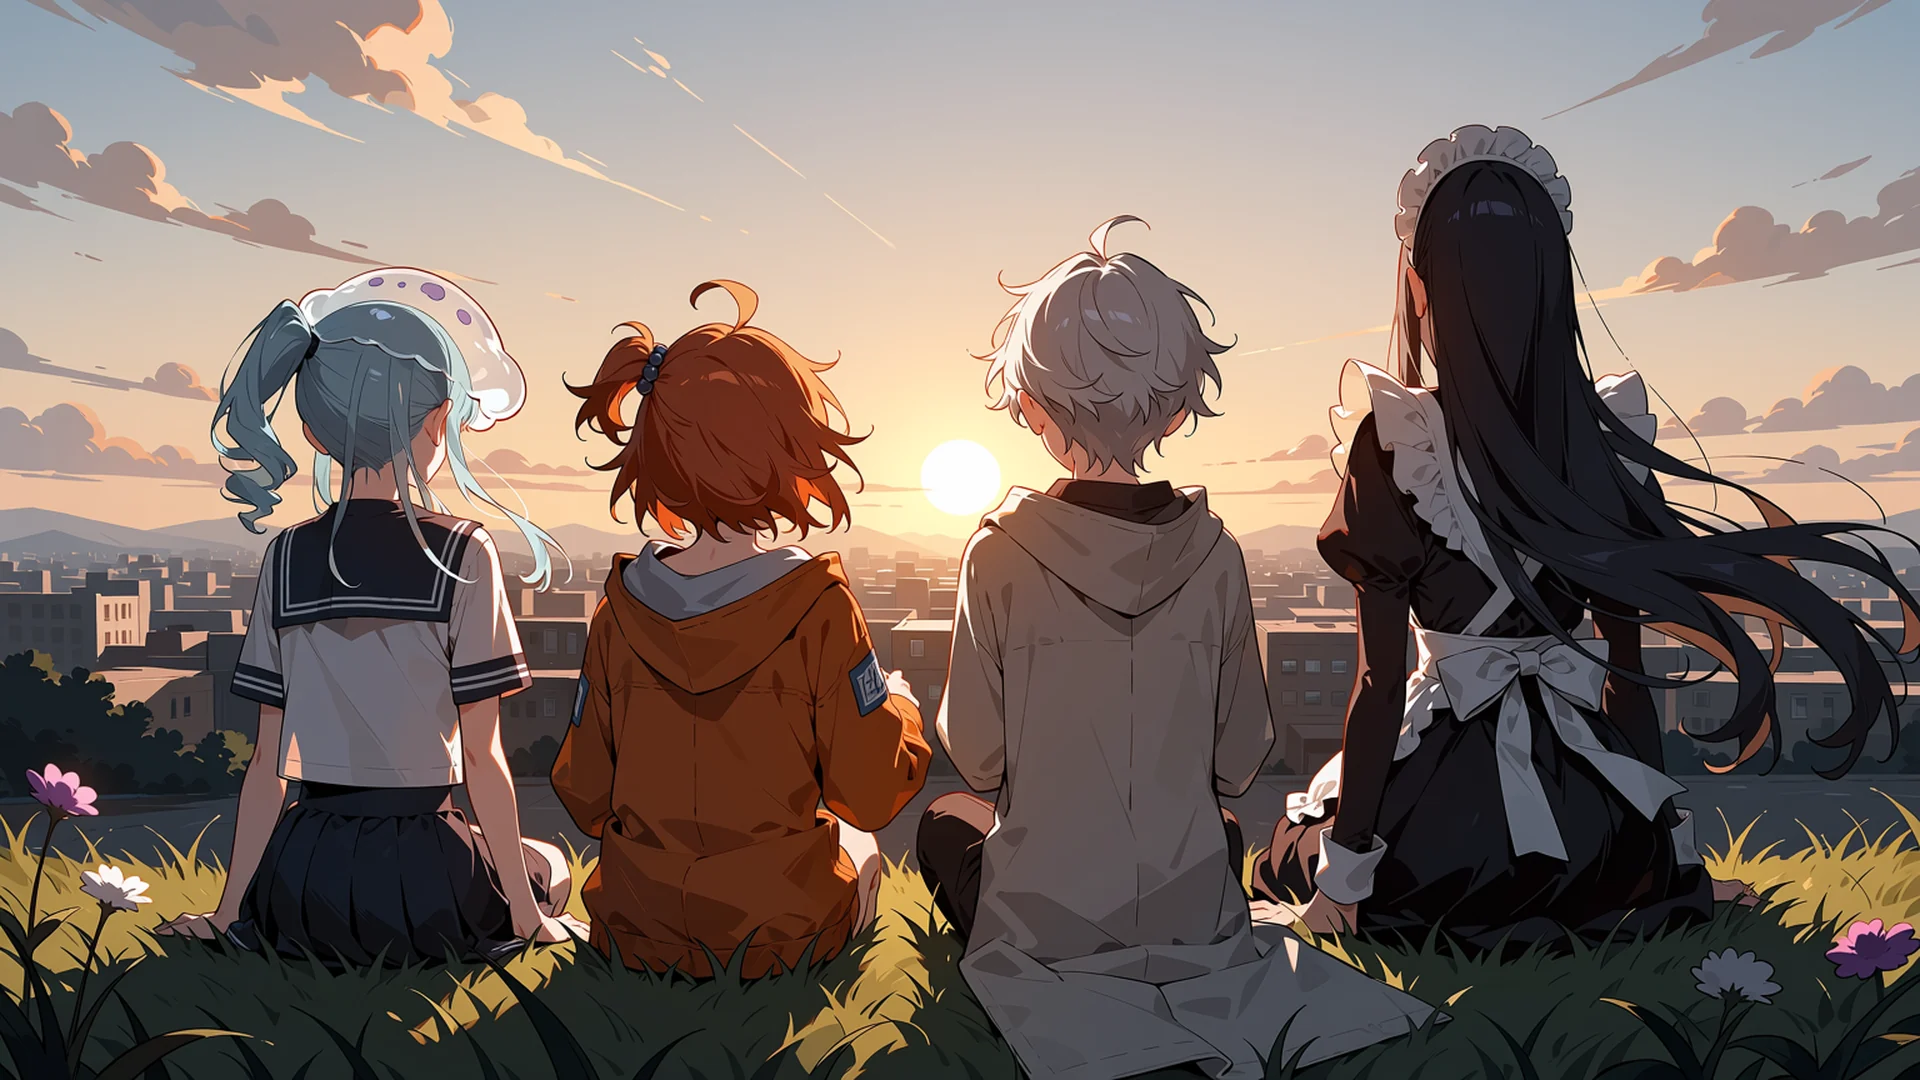
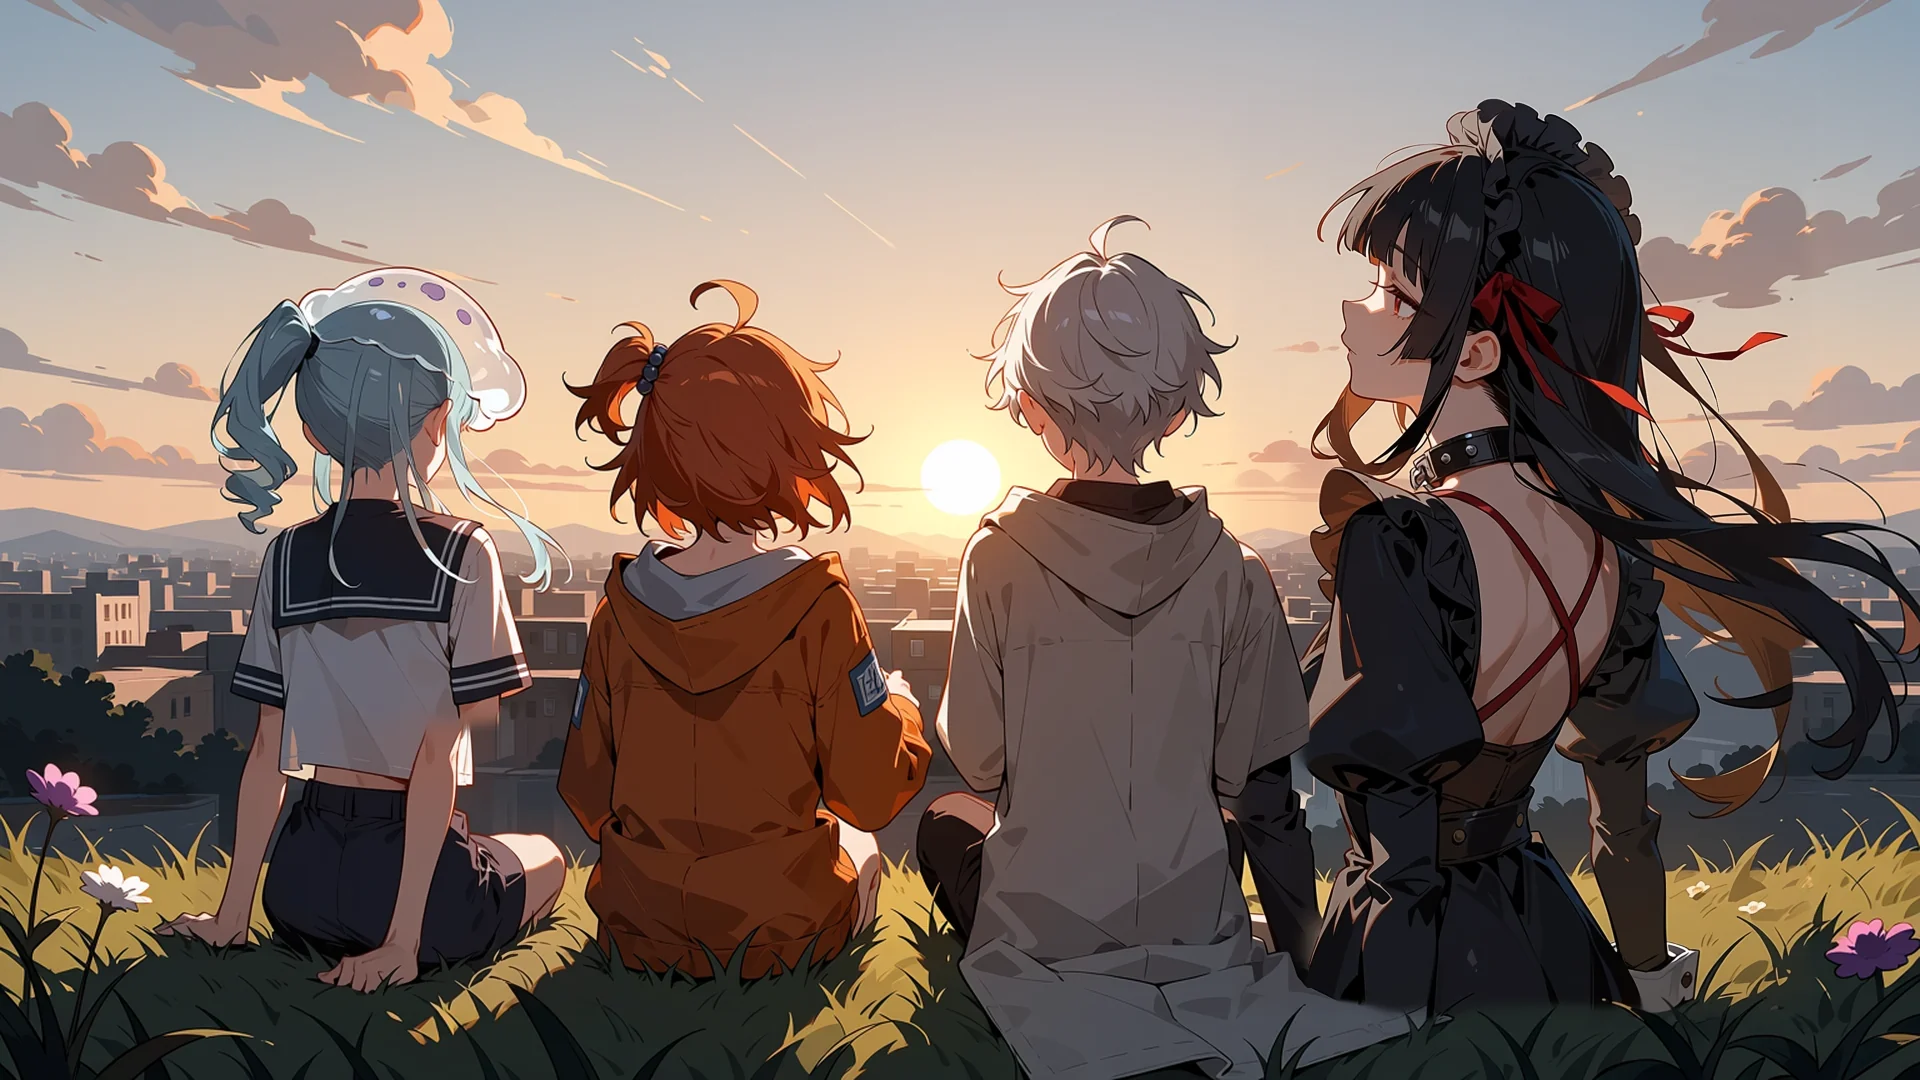
ストーリー公開: STORY ボタンを全員に出し、お知らせと一枚絵2枚の衣装を直した
c5_gate を描き直し、c6_dawn は瑠璃と茜を部分描き直しで立ち絵の衣装に揃えた。

Claude-Session: https://claude.ai/code/session_01Rbm6yMDkKFXBQe3KeEU7A4

Changed region(s): [[0.625, 0.0917, 0.9375, 0.9472], [0.0938, 0.6722, 0.3125, 0.9472]]

diff --git a/three-play.html b/three-play.html
@@ -4879,7 +4879,7 @@
       "./js3d/motion.js": "./js3d/motion.js?v=71cd68f8ff",
       "./js3d/mutebutton.js": "./js3d/mutebutton.js?v=1362dbc4d6",
       "./js3d/net.js": "./js3d/net.js?v=3134839bca",
-      "./js3d/news.js": "./js3d/news.js?v=107df38a33",
+      "./js3d/news.js": "./js3d/news.js?v=7b803e84e8",
       "./js3d/notice.js": "./js3d/notice.js?v=029a81acaa",
       "./js3d/opponent-select.js": "./js3d/opponent-select.js?v=fee989c0b5",
       "./js3d/panel.js": "./js3d/panel.js?v=fe55c120c1",
@@ -4927,11 +4927,11 @@
       "./js3d/story-scenery.js": "./js3d/story-scenery.js?v=9fa267bcf9",
       "./js3d/story-ui.js": "./js3d/story-ui.js?v=d75059f411",
       "./js3d/story-world.js": "./js3d/story-world.js?v=1b6a3369d0",
-      "./js3d/story.js": "./js3d/story.js?v=cb9c3242eb",
+      "./js3d/story.js": "./js3d/story.js?v=c4bc574fc8",
       "./js3d/support.js": "./js3d/support.js?v=efb00a908c",
       "./js3d/theme.js": "./js3d/theme.js?v=932e1d5eb8",
       "./js3d/tips.js": "./js3d/tips.js?v=3faae17957",
-      "./js3d/title.js": "./js3d/title.js?v=5421a14eb7",
+      "./js3d/title.js": "./js3d/title.js?v=1d2d40da2d",
       "./js3d/titleback.js": "./js3d/titleback.js?v=5663d0b7a4",
       "./js3d/training.js": "./js3d/training.js?v=3018b4399e",
       "./js3d/tsume.js": "./js3d/tsume.js?v=2d63bf0cd7",
@@ -4978,7 +4978,7 @@
   <link rel="modulepreload" href="js3d/control.js?v=c1b87ebc63">
   <link rel="modulepreload" href="js3d/panel.js?v=fe55c120c1">
   <link rel="modulepreload" href="js3d/setup.js?v=e17da5ca65">
-  <link rel="modulepreload" href="js3d/title.js?v=5421a14eb7">
+  <link rel="modulepreload" href="js3d/title.js?v=1d2d40da2d">
   <link rel="modulepreload" href="js3d/training.js?v=3018b4399e">
   <link rel="modulepreload" href="js3d/room.js?v=918fccde40">
   <link rel="modulepreload" href="js3d/roombet.js?v=cc2e51d3f4">
@@ -4990,7 +4990,7 @@
   <link rel="modulepreload" href="js3d/equip.js?v=51faa70a25">
   <link rel="modulepreload" href="js3d/stats.js?v=5e9acbdde6">
   <link rel="modulepreload" href="js3d/stats-data.js?v=61334c9347">
-  <link rel="modulepreload" href="js3d/story.js?v=cb9c3242eb">
+  <link rel="modulepreload" href="js3d/story.js?v=c4bc574fc8">
   <link rel="modulepreload" href="js3d/story-ui.js?v=d75059f411">
   <link rel="modulepreload" href="js3d/story-world.js?v=1b6a3369d0">
   <link rel="modulepreload" href="js3d/rewards.js?v=ef3a012bdb">
@@ -5061,7 +5061,7 @@
   <link rel="modulepreload" href="js3d/backdrops.js?v=90faf9612d">
   <link rel="modulepreload" href="js3d/profile.js?v=704205fbfe">
   <link rel="modulepreload" href="js3d/gacha-ui.js?v=b5bf4956cc">
-  <link rel="modulepreload" href="js3d/news.js?v=107df38a33">
+  <link rel="modulepreload" href="js3d/news.js?v=7b803e84e8">
   <link rel="modulepreload" href="vendor/jsm/postprocessing/ShaderPass.js">
   <link rel="modulepreload" href="js3d/story-map.js?v=a71db70a40">
   <link rel="modulepreload" href="js3d/story-scenery.js?v=9fa267bcf9">

diff --git a/js3d/title.js b/js3d/title.js
@@ -277,9 +277,9 @@ export function runTitle(protocols, opts) {
             '<button data-mode="record" type="button">RECORD</button>' +
             '<button data-mode="more" type="button" class="tt-morebtn" aria-expanded="false">MORE</button>' +
             '<div class="tt-morepop" hidden>' +
-              /* ストーリーは作り直しの間 (案8。2026-10-05〜) 管理者だけ。仕上がったら全員に戻す */
+              /* ストーリーは作り直しの間 (案8。2026-10-05〜) 管理者だけだった。2026-10-23 に序章〜終章が仕上がったので全員に開いた */
               /* 物語の進み具合 (前はいつも「序章「起動」」のまま) */
-              '<button data-mode="story" type="button"' + (accountState().admin ? '' : ' hidden') + '>STORY <small>' + storyLabel() + '</small></button>' +
+              '<button data-mode="story" type="button">STORY <small>' + storyLabel() + '</small></button>' +
               '<button data-mode="tutorial" type="button">TUTORIAL <small>遊び方</small></button>' +
               '<button data-mode="training" type="button">TRAINING <small>盤面を自由に</small></button>' +
               '<button data-mode="cards" type="button">CARDS <small>カード一覧</small></button>' +
@@ -301,8 +301,6 @@ export function runTitle(protocols, opts) {
         label.parentElement.classList.toggle('nudge', nudge);
         if (cap && nudge) cap.textContent = '記録はこのブラウザだけ！';
         root.querySelector('#ttCorner button[data-mode="admin"]').hidden = !accountState().admin;
-        const story = root.querySelector('button[data-mode="story"]');
-        if (story) story.hidden = !accountState().admin;
         return true;
       };
       /* メニューを出す前にログイン状態が読み終わっていることがある (そのときの知らせは聞き逃している)。

diff --git a/js3d/story.js b/js3d/story.js
@@ -46,8 +46,8 @@ export const SPEAKERS = {
 /* 名前のない機体 (モブ) は、量産プロトコル3つ (js3d/mobcards.js)。タッグの相方も同じ3つを並べ替えて使う。元のカードと β は名前のある人物だけが使う (2026-10-16 ユーザー) */
 const MOB = MOB_DECK, MOB_MATE = MOB_MATE_DECK;
 const L = (who, text, face) => ({ who, text, ...(face ? { face } : {}) });
-/* 終章で、紫苑が判定票の名前の欄に書いた名前。仮の「灯」(2026-10-22、本人の返事待ちのまま入れた)。
-   差し替えるときはここだけ直す (画面に出るのは終章の SYSTEM の1行だけで、声にはならない) */
+/* 終章で、紫苑が判定票の名前の欄に書いた名前。「灯 (あかり)」(2026-10-23 本人「よしなに」で確定)。
+   変えるときはここだけ直す (画面に出るのは終章の SYSTEM の1行だけで、声にはならない) */
 export const HERO_NAME = '灯 (あかり)';
 
 /* 対戦: me / opp = プロトコル3つ、level = CPU の強さ (0 かんたん / 1 ふつう / 2 つよい。タッグでは味方の CPU も同じ強さ)、

diff --git a/js3d/news.js b/js3d/news.js
@@ -16,6 +16,15 @@ export const KINDS = {
 
 export const NEWS = [
   {
+    id: '2026-10-23-story', date: '2026-10-23', kind: 'new',
+    img: 'art/news/story.webp', alt: 'ストーリー1章の一枚絵。朝の光が差す、空っぽの水族館の水槽を見上げる紫苑',
+    title: 'ストーリーが遊べるようになりました',
+    body: [
+      '人のいなくなった街で、命令を続けるアンドロイドたちに会いに行く物語です。序章から終章まで、MORE の STORY から遊べます。',
+      '歩ける地図・一枚絵・キャラクターの声・場面ごとの音楽つきです。進み具合は端末 (ログインしていればアカウント) に残ります。'
+    ]
+  },
+  {
     id: '2026-10-16-honki', date: '2026-10-16', kind: 'new',
     img: 'art/news/honki.webp', alt: 'CHALLENGE の強敵の一覧。本気紫苑・本気瑠璃・本気杏・本気茜が並ぶ',
     title: 'CHALLENGE に「本気の4人」が登場',
